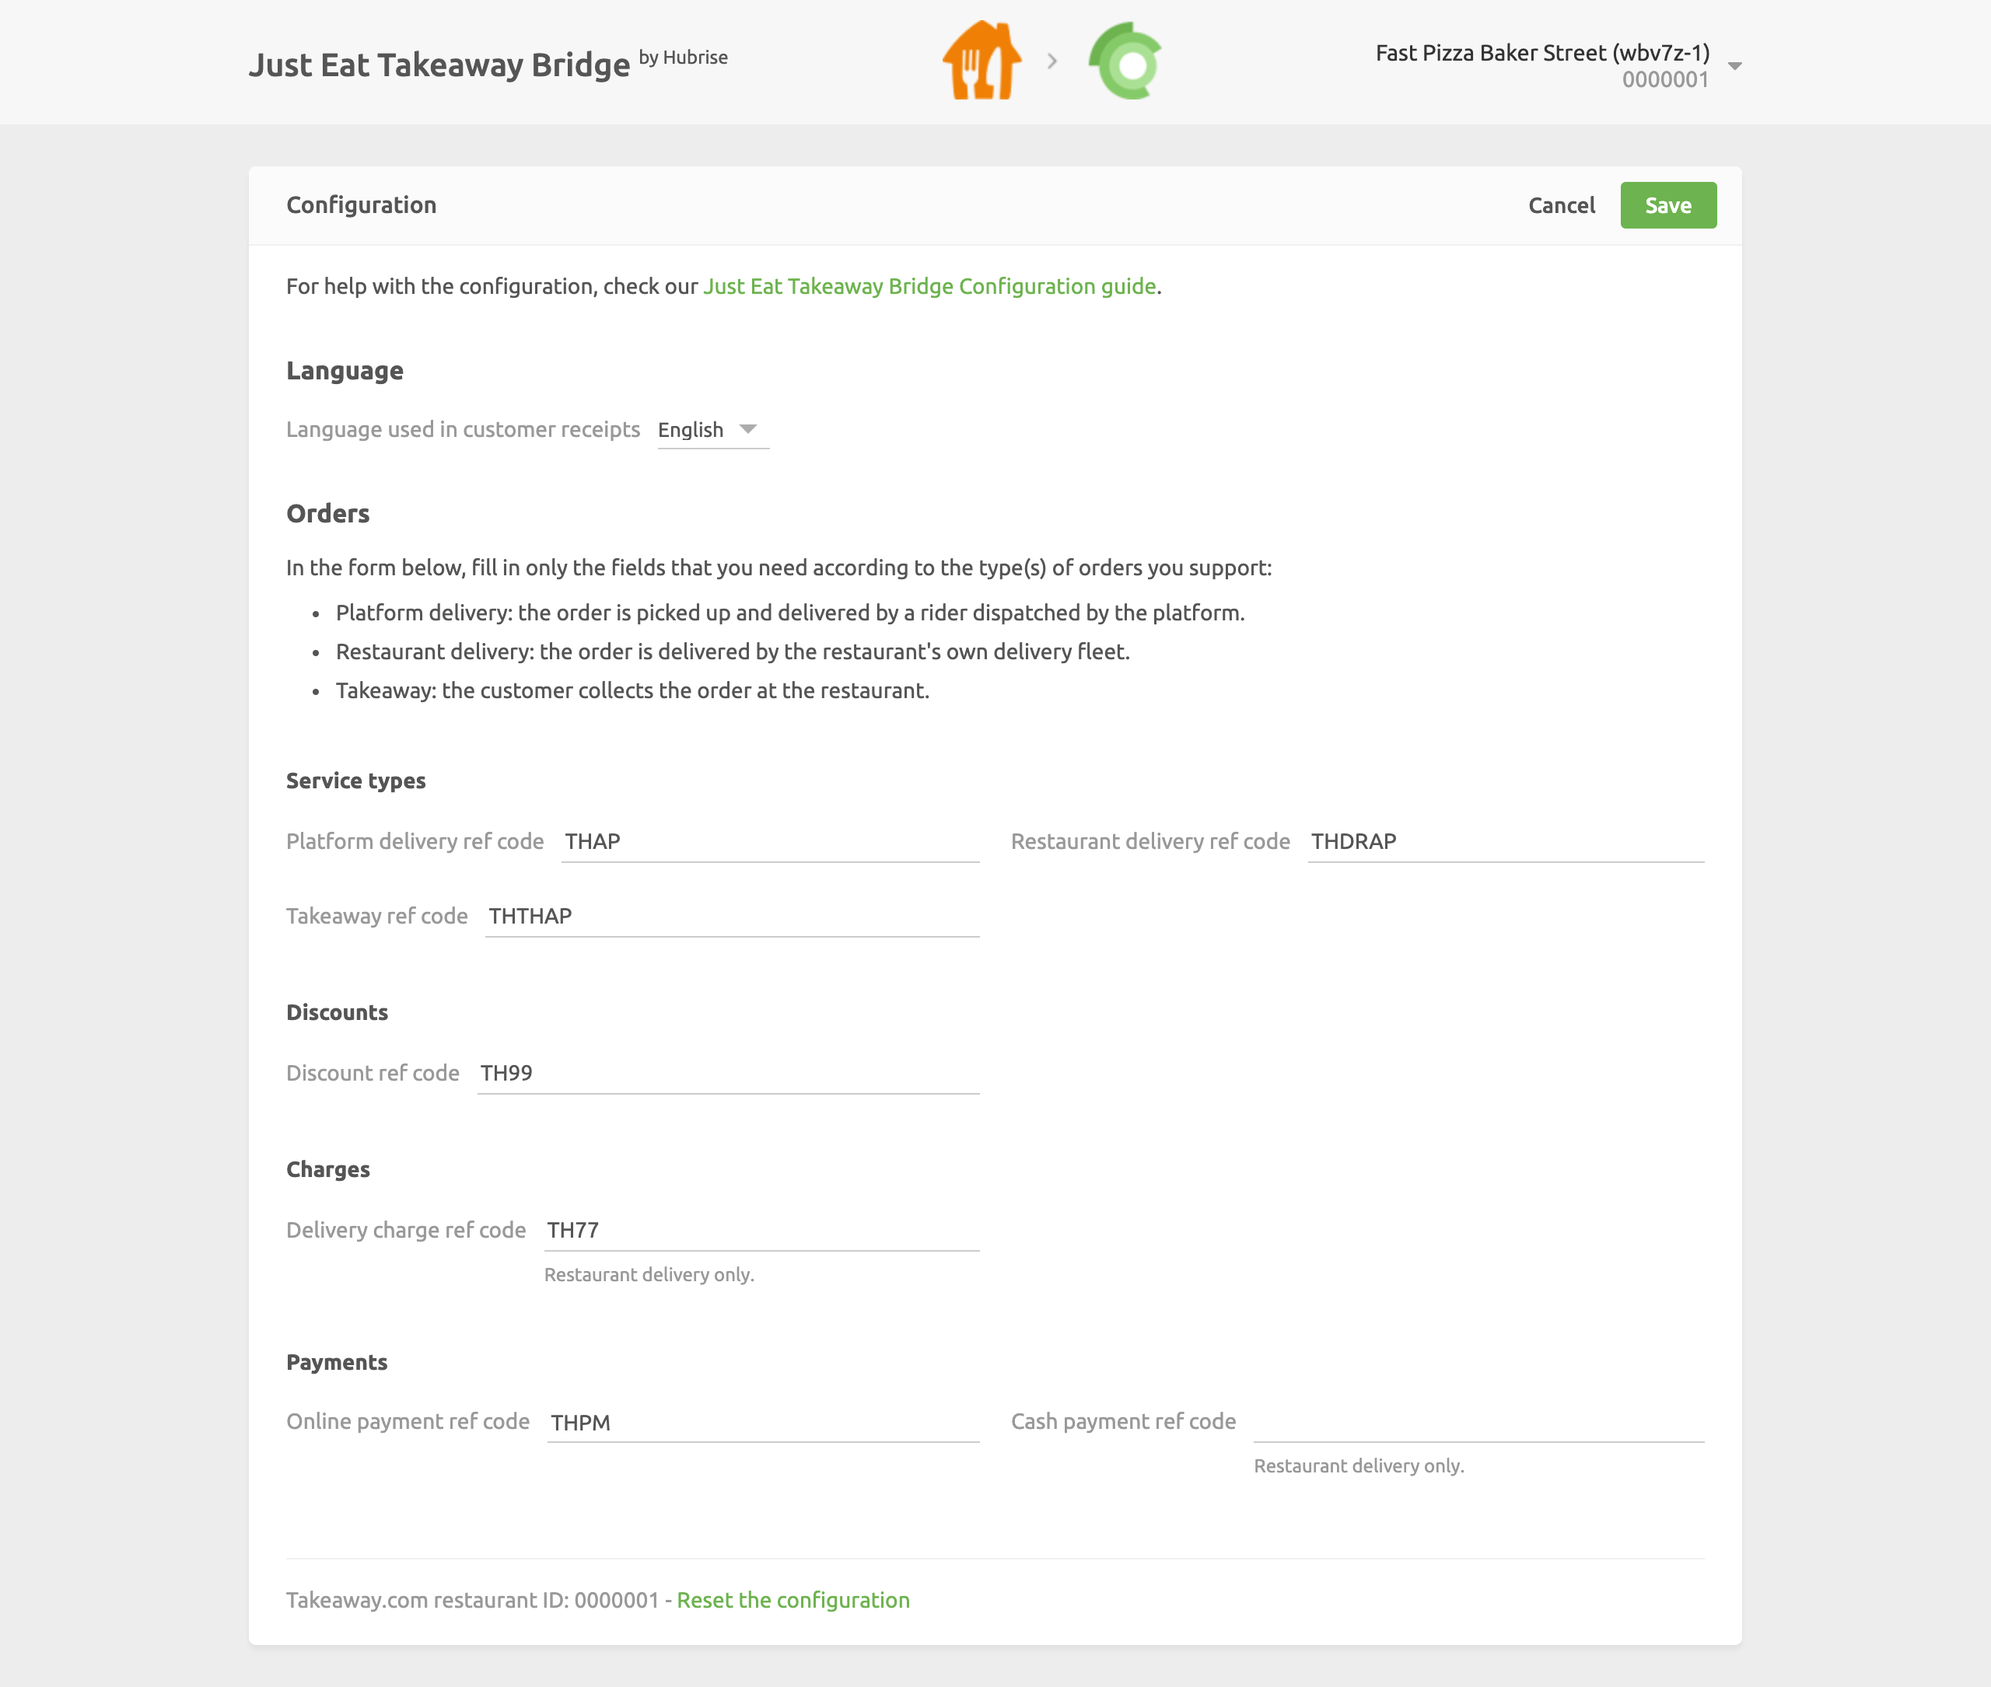
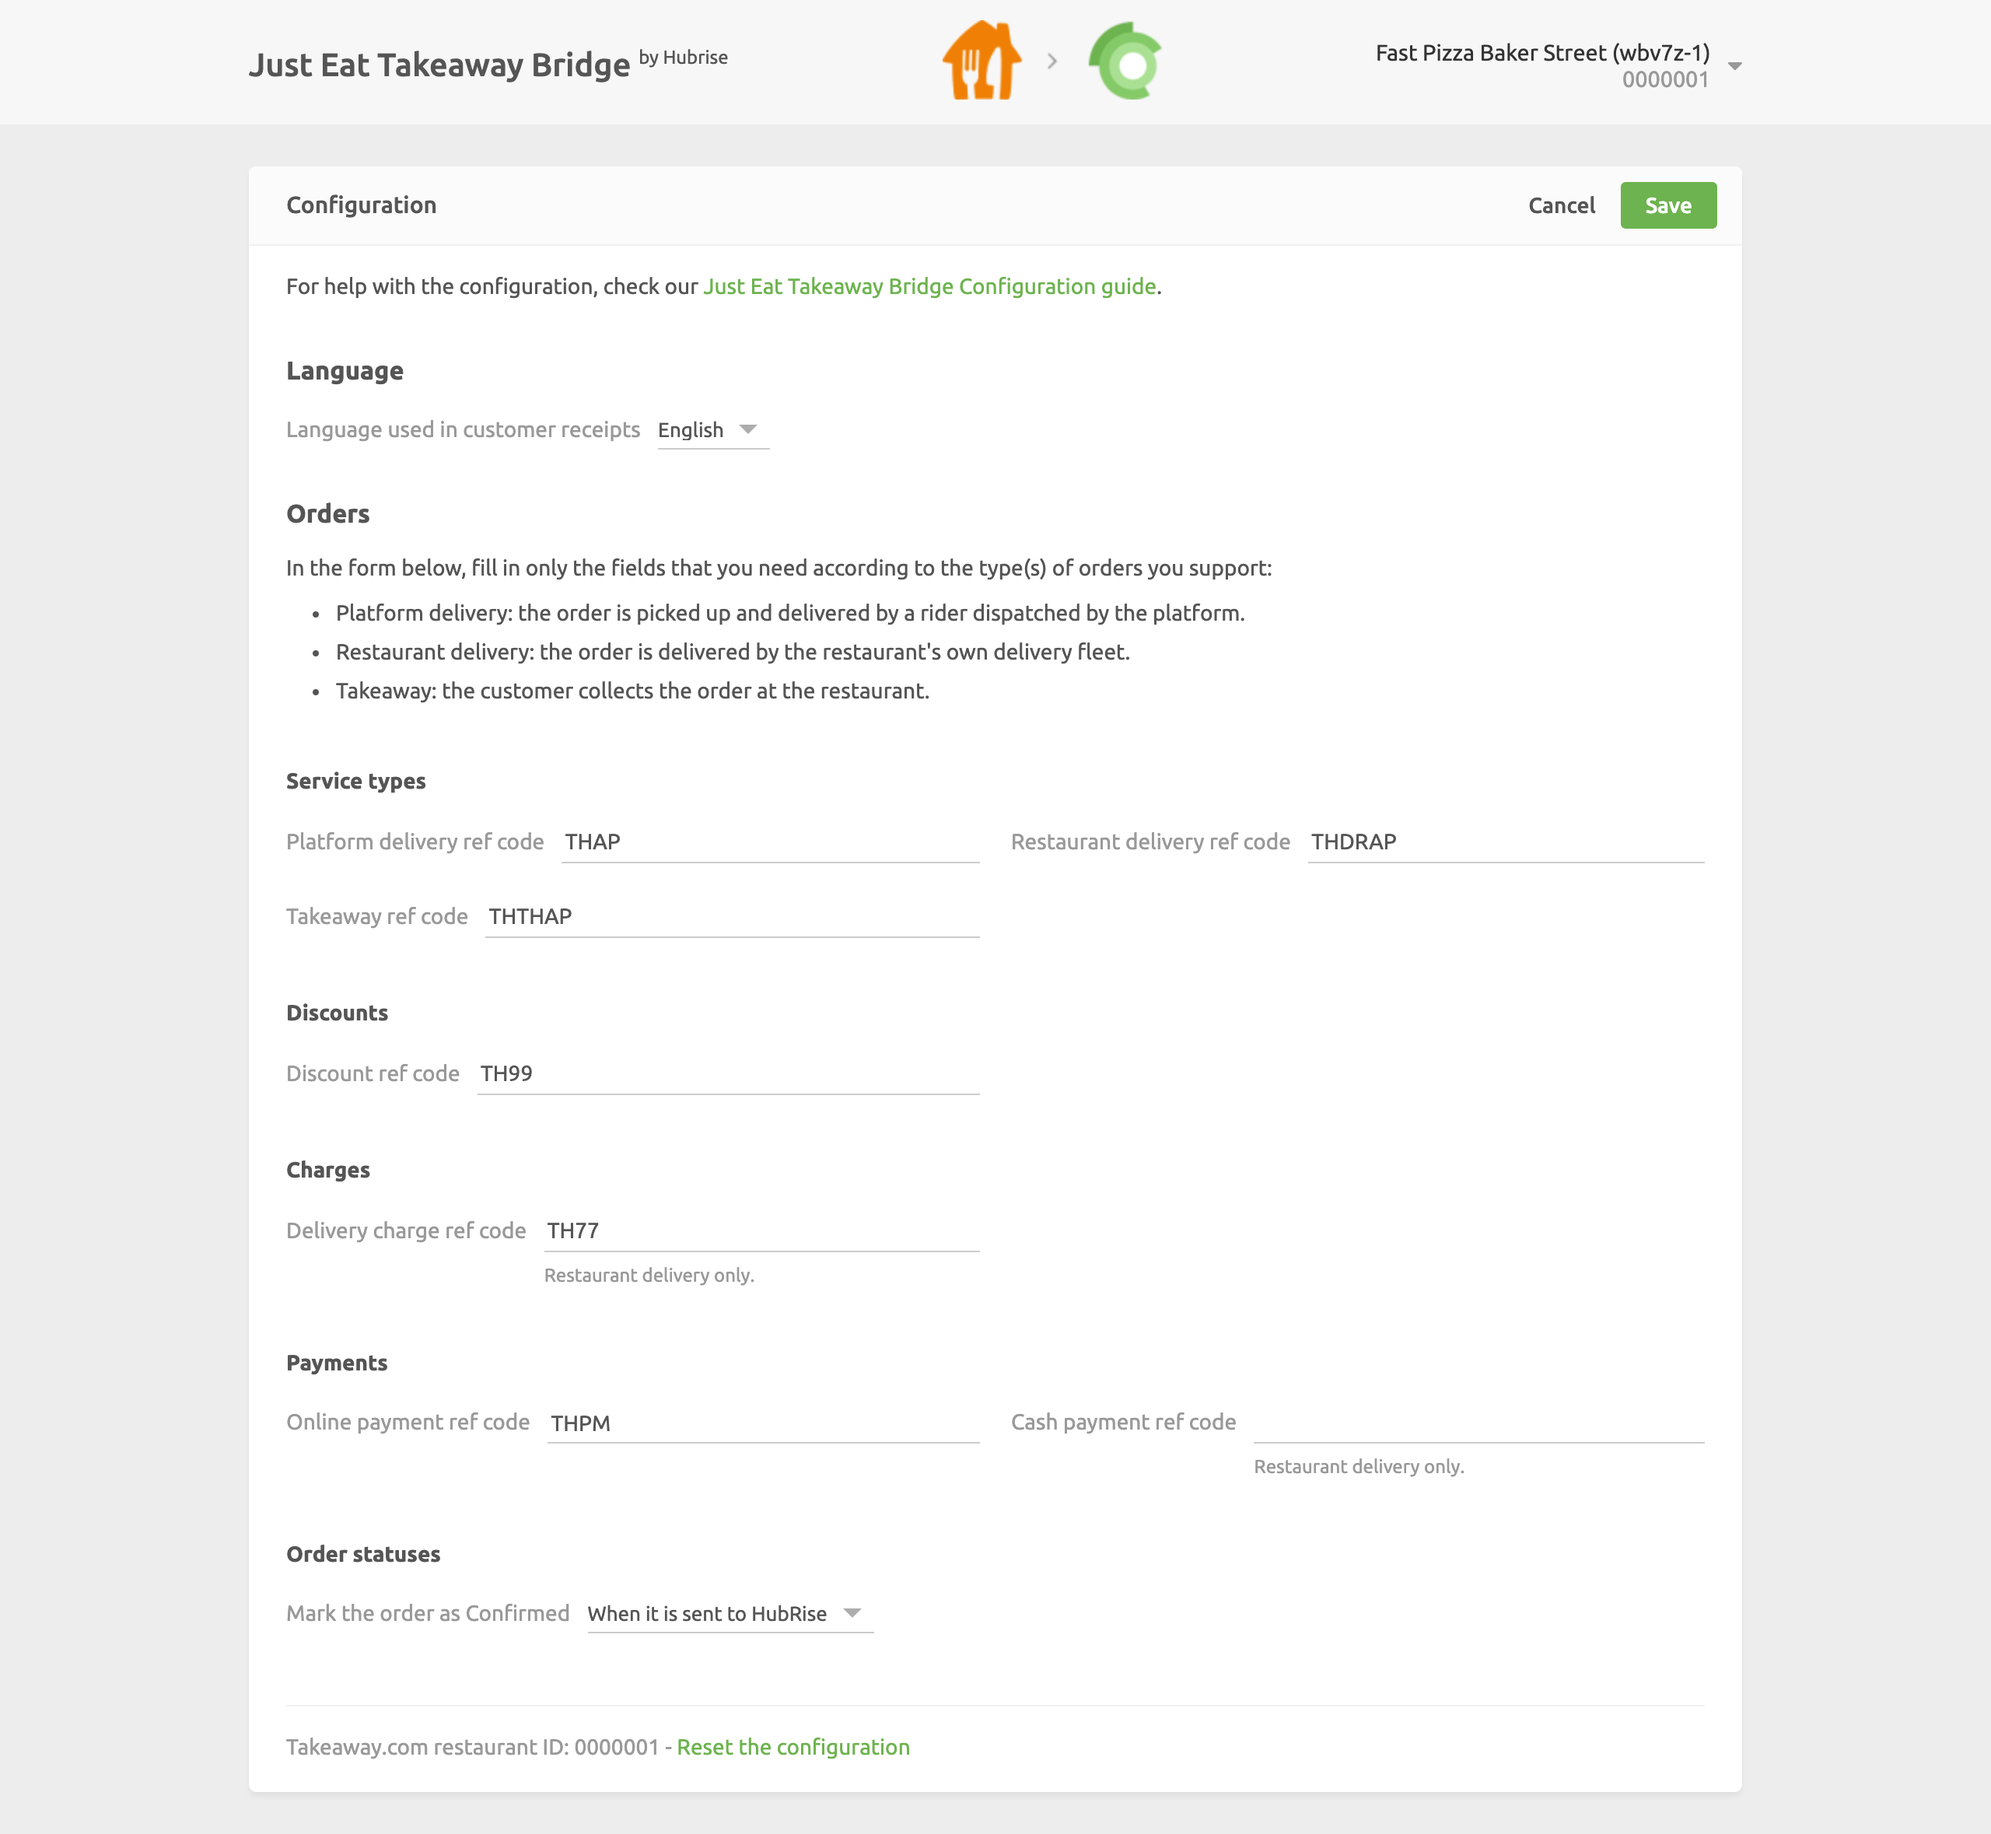
JET: Address comments

diff --git a/content/apps/just-eat-takeaway/en/receiving-orders.md b/content/apps/just-eat-takeaway/en/receiving-orders.md
@@ -18,7 +18,9 @@ When a new order is created on HubRise, the Just Eat Takeaway order ID is stored
 
 Just Eat Takeaway orders contain the complete information about items and options, including name, POS ref code, quantity, and price. Deals, however, are not supported.
 
-The following sections explain in detail the fields available.
+For a full list of the available fields in the payload, expand the **Technical Details** section below.
+
+<details>
 
 ### Items Encoding
 
@@ -41,12 +43,26 @@ For every option in the order, Just Eat Bridge provides the following informatio
 - `price`: The price for a single item
 
 Every option has single quantity. Multiple identical options are encoded in separate option objects.
+</details>
 
 ## Order Statuses
 
 New Just Eat Takeaway orders are created on HubRise with status `new`.
 
-When an order status changes on HubRise, Just Eat Takeaway Bridge notifies Just Eat, and the change can be seen by the customer. The following status updates automatically triggers Just Eat Takeaway Bridge to send a request to inform the platform of the new status.
+When an order status changes on HubRise, Just Eat Takeaway Bridge notifies Just Eat, and the change can be seen by the customer.
+
+As a minimum requirement, Just Eat Takeaway expects every successful order to be marked as "confirmed".
+From the configuration page of Just Eat Takeaway Bridge, you can customise when the confirmation is sent to the platform. The following are the three possible scenarios:
+
+- `Mark the order as Confirmed when it is sent to HubRise`: New orders are automatically confirmed on Just Eat Takeaway as soon as HubRise receives them.
+- `Mark the order as Confirmed when HubRise status changes to "Received"`: Orders are confirmed on Just Eat Takeaway only when the HubRise status changes to `received`.
+- `Mark the order as Confirmed when HubRise status changes to "Accepted"`: Orders are confirmed on Just Eat Takeaway only when the HubRise status changes to `accepted`. Only in this case, marking an order as `received` on HubRise informs the platform that the order has been received, but not yet confirmed.
+
+<details>
+
+### Additional Available Statuses
+
+The following status updates automatically trigger a request from Just Eat Takeaway Bridge to the platform:
 
 - `in_preparation`: The order is being prepared in the kitchen.               
 - `in_delivery`: The order is out for delivery.                             
@@ -54,6 +70,7 @@ When an order status changes on HubRise, Just Eat Takeaway Bridge notifies Just 
 - `rejected`, `cancelled`, `delivery_failed`: There was a problem with the order. The request body contains information about the error. 
 
 Other HubRise status updates are not supported and do not trigger any request to Just Eat Takeaway.
+</details>
 
 ## Service Types
 
@@ -68,15 +85,16 @@ These are typically associated with specific ref codes in your EPOS, which you c
 ## Customer Details
 
 Full customer's details are provided by Just Eat Takeaway for all orders, regardless of the service type. 
+Email address is not provided by Just Eat Takeaway, so this field is always missing on HubRise.
 
 Just Eat Takeaway Bridge always includes the customer's details in the `customer` object.
 
-### Customer Name and Email
+<details>
+
+### Customer Name
 
 The customer's name is provided as a single field by Just Eat Takeaway. 
 The `first_name` and `last_name` fields are created on HubRise by splitting the full name by the first space character.
-
-An email address is not provided by Just Eat Takeaway, so this field is missing on HubRise.
 
 ### Customer Address
 
@@ -89,9 +107,15 @@ Just Eat Takeaway Bridge receives the following information from Just Eat about 
 - `delivery_notes`: The delivery notes that the customer includes at checkout
 - `company_name`: The name of the company the customer belongs to
 
+</details>
+
 ## Discounts
 
 The discount applied to the order is passed in a single object in the HubRise `discounts` array.
+
+<details>
+
+### Discounts Encoding
 
 The available fields in the payload are the following:
 
@@ -99,9 +123,13 @@ The available fields in the payload are the following:
 - `ref`: The ref code of the discount. Its default value can be set from the Configuration page of Deliveroo Bridge and should match the value in your EPOS.
 - `price_off`: The total amount of the discount.
 
+</details>
+
 ## Charges
 
 Just Eat Takeaway Bridge encodes information about delivery charge, which can be found in the `charges` array.
+
+<details>
 
 ### Delivery Charges
 
@@ -113,6 +141,8 @@ The available fields in the payloads are the following:
 - `type`: The type of charge. It has always the value `delivery`.
 - `ref`: The ref code of the charge. Its default value can be set from the Configuration page of Just Eat Bridge and should match the value in your EPOS.
 - `price`: The total amount of the delivery charge.
+
+</details>
 
 ## Customers' Notes
 

diff --git a/content/apps/just-eat-flyt/en/overview.md b/content/apps/just-eat-flyt/en/overview.md
@@ -6,7 +6,7 @@ meta:
   title: Just Eat Flyt Connection to HubRise - Overview
   description: Just Eat overview and why restaurants and convenience stores should connect it to HubRise. With a connection orders are sent to your working tools - EPOS, KDS.
 gallery:
-  - 002-en-just-eat-configuration-page.png
+  - 007-en-just-eat-configuration-page-crop.png
   - 006-en-just-eat-screenshot.png
 path_override: /
 app_info:
@@ -43,10 +43,11 @@ Just Eat Flyt Bridge allows you to connect to HubRise the following platforms:
 Connecting Just Eat Flyt Bridge allows you to:
 
 - Push Just Eat orders to HubRise.
+  ![Diagram of the connection flow between Just Eat, Just Eat Flyt Bridge, and HubRise for receiving orders](../images/000-en-2x-just-eat-connection-diagram.png)
 - Push delivery information to HubRise, for orders delivered by your team.
+  ![Diagram of the connection flow between Just Eat, Just Eat Flyt Bridge, and HubRise for handling delivery information](../images/009-en-2x-just-eat-delivery-fleet-diagram.png)
 - Push your menu from HubRise directly to your Just Eat store.
-
-![Diagram of the connection flow between Just Eat, Just Eat Flyt Bridge, and HubRise](../images/000-en-2x-just-eat-connection-diagram.png)
+  ![Diagram of the connection flow between Just Eat, Just Eat Flyt Bridge, and HubRise for pushing the menu](../images/010-en-2x-just-eat-menu-push-diagram.png)
 
 ## Why Connect?
 

diff --git a/content/apps/just-eat-takeaway/en/configuration.md b/content/apps/just-eat-takeaway/en/configuration.md
@@ -36,6 +36,10 @@ Just Eat Takeaway customers can pay for their order either online or by cash for
 
 This section of the configuration page allows you to specify the ref codes for these two payment methods. Refer to your connected EPOS documentation on the HubRise website to verify the correct codes to use.
 
+## Order Statuses
+
+Just Eat Takeaway requires you to mark every successful order as "confirmed". In this section, you can select which HubRise status change is used to send the confirmation to Just Eat Takeaway.
+
 ## Saving the Configuration
 
 Once you are happy with the configuration of Just Eat Takeaway Bridge, click **Save** at the top of the page to go back to the Operations page.
@@ -46,7 +50,7 @@ If you want to reset the configuration and erase its values, click **Reset the c
 
 ---
 
-**IMPORTANT NOTE:** Resetting the configuration will also erase your Just Eat Takeaway Restaurant ID. To continue receiving Just Eat Takeaway orders, you will need to enter your Just Eat Takeaway Restaurant ID again.
+**IMPORTANT NOTE:** Resetting the configuration will also erase your integration settings. To continue receiving Just Eat Takeaway orders, you will need to enter your integration settings again.
 
 ---
 

diff --git a/content/apps/just-eat-takeaway/en/overview.md b/content/apps/just-eat-takeaway/en/overview.md
@@ -6,7 +6,8 @@ meta:
   title: Just Eat Takeaway.com Connection to HubRise - Overview
   description: Just Eat Takeaway.com overview and why restaurants and convenience stores should connect it to HubRise. With a connection orders are sent to your working tools - EPOS, KDS.
 gallery:
-  - 002-en-jet-configuration-page.png
+  - 007-en-jet-configuration-page-crop.png
+  - 006-en-jet-screenshot.png
 path_override: /
 app_info:
   category: Food Ordering Platforms
